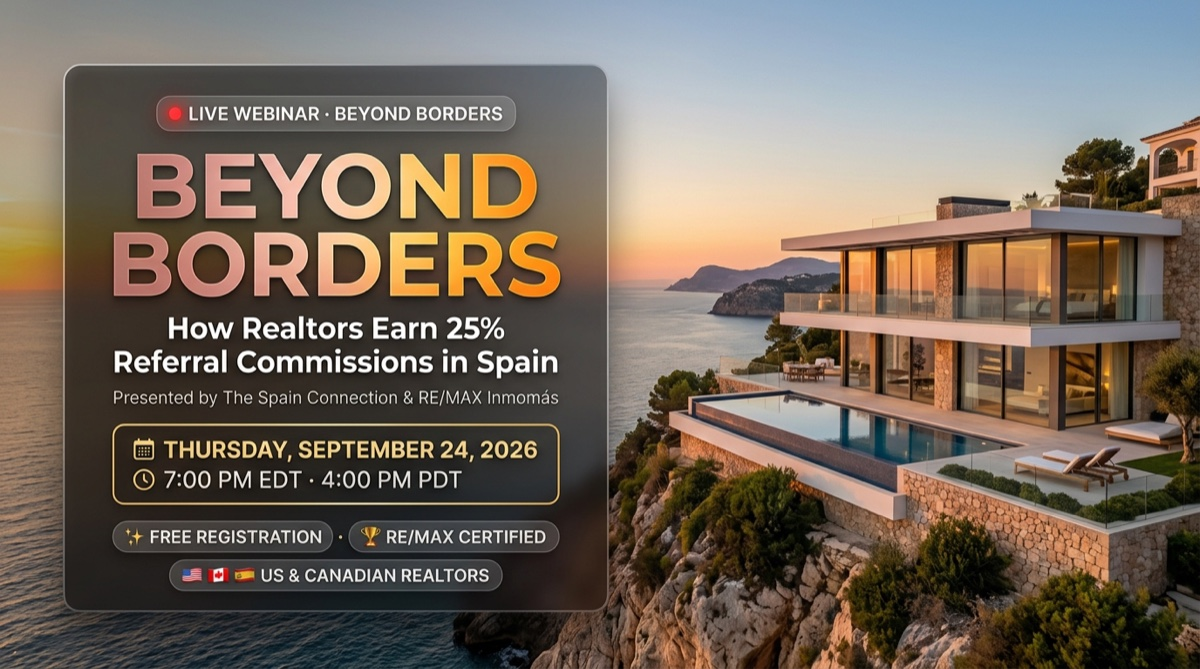
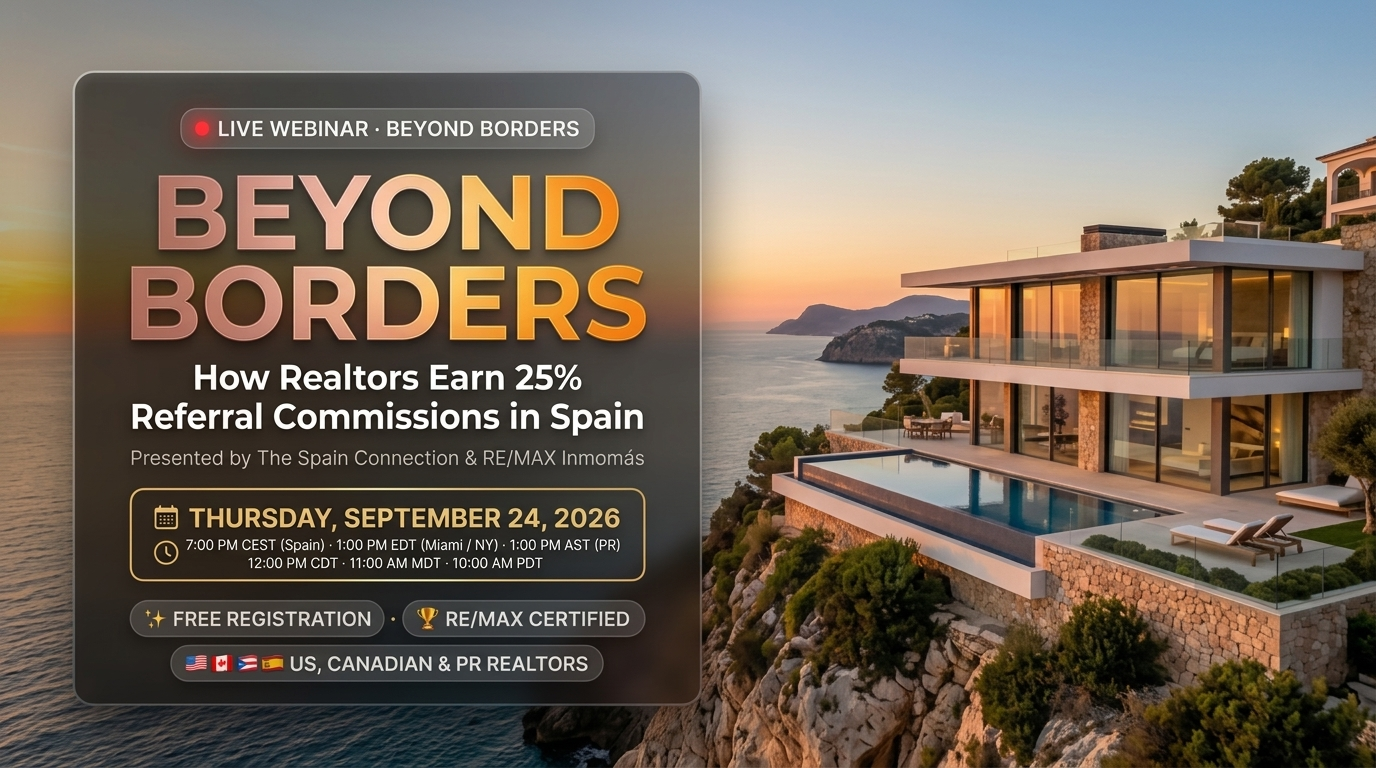
fix(webinar): update webinar assets to English and correct schedule to 7:00 PM CEST (1:00 PM EDT / 11:00 AM MDT / 10:00 AM PDT)

diff --git a/index.html b/index.html
@@ -6,8 +6,8 @@
   <meta name="viewport" content="width=device-width, initial-scale=1.0, viewport-fit=cover">
   <title>The Spain Connection</title>
   <meta name="description" content="Advisory for international buyers — Canadians, Americans, Europeans — buying property in Spain. 30+ years on the Costa Blanca. Legal, tax, mortgages, rentals & real estate — one trusted team.">
-  <meta property="og:title" content="The Spain Connection — Live Masterclass VIP: Beyond Borders (24 de Septiembre 2026)">
-  <meta property="og:description" content="Masterclass VIP en Vivo · 24 de Septiembre, 2026 a las 7:00 PM EDT. Guía para Realtors de EE.UU. y Canadá: cómo ganar 25% de comisión de referidos en España con RE/MAX Inmomás.">
+  <meta property="og:title" content="The Spain Connection — Live VIP Masterclass: Beyond Borders (September 24, 2026)">
+  <meta property="og:description" content="Live VIP Masterclass · September 24, 2026 at 7:00 PM CEST (Spain) / 1:00 PM EDT (Miami, NY, Toronto) / 1:00 PM AST (Puerto Rico) / 10:00 AM PDT. How US, Canadian & Puerto Rico Realtors earn 25% referral commissions in Spain with RE/MAX Inmomás.">
   <meta property="og:image" content="https://proyecto-internacional.vercel.app/images/webinar-share-sept24.jpg">
   <meta property="og:image:secure_url" content="https://proyecto-internacional.vercel.app/images/webinar-share-sept24.jpg">
   <meta property="og:image:type" content="image/jpeg">
@@ -17,8 +17,8 @@
   <meta property="og:type" content="website">
   <meta property="og:site_name" content="The Spain Connection">
   <meta name="twitter:card" content="summary_large_image">
-  <meta name="twitter:title" content="The Spain Connection — Live Masterclass VIP: Beyond Borders (24 de Septiembre 2026)">
-  <meta name="twitter:description" content="Masterclass VIP en Vivo · 24 de Septiembre a las 7:00 PM EDT. Gana 25% de comisión de referidos en España con RE/MAX Inmomás.">
+  <meta name="twitter:title" content="The Spain Connection — Live VIP Masterclass: Beyond Borders (September 24, 2026)">
+  <meta name="twitter:description" content="Live VIP Masterclass · September 24 at 7:00 PM CEST (Spain) / 1:00 PM EDT (Miami, NY, Toronto) / 1:00 PM AST (PR) / 10:00 AM PDT. Earn 25% referral commissions in Spain with RE/MAX Inmomás.">
   <meta name="twitter:image" content="https://proyecto-internacional.vercel.app/images/webinar-share-sept24.jpg">
   <!-- Mobile / PWA -->
   <meta name="theme-color" content="#1b5b7f">
@@ -94,10 +94,10 @@
         </span>
       </div>
       <span id="webinar-top-banner-text" style="color:#fff;font-size:.85rem;font-weight:600;">
-        <span class="lang-en">&#x1F399;&#xFE0F; <strong>Beyond Borders</strong> &nbsp;&middot;&nbsp; September 24 &nbsp;&middot;&nbsp; 7 PM EDT&nbsp;/&nbsp;19:00 h Miami &nbsp;&middot;&nbsp; Free for US &amp; Canadian Realtors</span>
-        <span class="lang-es">&#x1F399;&#xFE0F; <strong>Beyond Borders</strong> &nbsp;&middot;&nbsp; 24 de septiembre &nbsp;&middot;&nbsp; 7 PM EDT&nbsp;/&nbsp;19:00 h Miami &nbsp;&middot;&nbsp; Gratuito para Realtors y Brokers</span>
-        <span class="lang-fr">&#x1F399;&#xFE0F; <strong>Beyond Borders</strong> &nbsp;&middot;&nbsp; 24 septembre &nbsp;&middot;&nbsp; 19 h EDT &nbsp;&middot;&nbsp; Gratuit pour Agents &amp; Courtiers</span>
-        <span class="lang-en-ca">&#x1F399;&#xFE0F; <strong>Beyond Borders</strong> &nbsp;&middot;&nbsp; September 24 &nbsp;&middot;&nbsp; 7 PM EDT &nbsp;&middot;&nbsp; Free for US &amp; Canadian Realtors</span>
+        <span class="lang-en">&#x1F399;&#xFE0F; <strong>Beyond Borders</strong> &nbsp;&middot;&nbsp; September 24 &nbsp;&middot;&nbsp; 7:00 PM CEST (1:00 PM EDT / 10:00 AM PDT) &nbsp;&middot;&nbsp; Free for US &amp; Canadian Realtors</span>
+        <span class="lang-es">&#x1F399;&#xFE0F; <strong>Beyond Borders</strong> &nbsp;&middot;&nbsp; 24 de septiembre &nbsp;&middot;&nbsp; 19:00 h España (1:00 PM EDT / Miami · NY · PR) &nbsp;&middot;&nbsp; Gratuito para Realtors y Brokers</span>
+        <span class="lang-fr">&#x1F399;&#xFE0F; <strong>Beyond Borders</strong> &nbsp;&middot;&nbsp; 24 septembre &nbsp;&middot;&nbsp; 19 h CEST (13 h EDT) &nbsp;&middot;&nbsp; Gratuit pour Agents &amp; Courtiers</span>
+        <span class="lang-en-ca">&#x1F399;&#xFE0F; <strong>Beyond Borders</strong> &nbsp;&middot;&nbsp; September 24 &nbsp;&middot;&nbsp; 7:00 PM CEST (1:00 PM EDT / 10:00 AM PDT) &nbsp;&middot;&nbsp; Free for US &amp; Canadian Realtors</span>
       </span>
       <span id="webinar-top-banner-spots" style="display:inline-flex;align-items:center;gap:5px;background:rgba(255,200,0,.18);border:1px solid rgba(255,200,0,.45);border-radius:50px;padding:2px 10px;font-size:.72rem;font-weight:800;color:#ffe066;white-space:nowrap;letter-spacing:.04em;">
         &#x1F525;
@@ -1704,10 +1704,10 @@
               <span class="lang-en-ca">Beyond Borders · Realtor VIP Masterclass</span>
             </h2>
             <p id="referral-welcome-msg" style="color: var(--text-secondary); font-size: 0.88rem; line-height: 1.4; margin: 0 auto; max-width: 480px; text-align: center;">
-              <span class="lang-en">Live Webinar · September 24, 2026 · 7:00 PM EDT</span>
-              <span class="lang-es">Webinario en Vivo · 24 de Septiembre 2026 · 7:00 PM EDT</span>
-              <span class="lang-fr">Webinaire en Direct · 24 Septembre 2026 · 19 h EDT</span>
-              <span class="lang-en-ca">Live Webinar · September 24, 2026 · 7:00 PM EDT</span>
+              <span class="lang-en">Live Masterclass · September 24, 2026 · 7:00 PM CEST (1:00 PM EDT / 10:00 AM PDT)</span>
+              <span class="lang-es">Masterclass en Vivo · 24 de Septiembre 2026 · 19:00 h España (1:00 PM EDT / Miami · NY · PR)</span>
+              <span class="lang-fr">Masterclass en Direct · 24 Septembre 2026 · 19 h CEST (13 h EDT)</span>
+              <span class="lang-en-ca">Live Masterclass · September 24, 2026 · 7:00 PM CEST (1:00 PM EDT / 10:00 AM PDT)</span>
             </p>
           </div>
 
@@ -1721,7 +1721,7 @@
           <!-- ==================== WEBINAR SPOTLIGHT SHOWCASE BANNER (LUXURY VIP PASS) ==================== -->
           <div id="referral-webinar-spotlight-banner" class="luxury-webinar-pass">
             <div class="pass-badge-row">
-              <span class="live-pill"><span class="pulse-dot"></span> 24 SEP 2026 · 7:00 PM EDT</span>
+              <span class="live-pill"><span class="pulse-dot"></span> 24 SEP 2026 · 7:00 PM CEST / 1:00 PM EDT</span>
               <span class="vip-pill">🎟 <span class="lang-en">Realtor VIP Pass</span><span class="lang-es">Pase VIP Realtors</span><span class="lang-fr">Pass VIP Agents</span><span class="lang-en-ca">Realtor VIP Pass</span></span>
             </div>
 
@@ -1734,7 +1734,7 @@
 
             <div class="pass-meta-strip">
               <span>📅 <strong>24 Sep 2026</strong></span>
-              <span>⏰ <strong>7:00 PM EDT (Miami / NY)</strong></span>
+              <span>⏰ <strong>7:00 PM CEST (Spain) &middot; 1:00 PM EDT (Miami/NY/PR) &middot; 10:00 AM PDT</strong></span>
               <span>🎙 <strong>Q&amp;A en Vivo + Grabación</strong></span>
             </div>
 
@@ -2169,21 +2169,21 @@
 
               <div style="background:rgba(255,255,255,.06);border:1px solid rgba(255,255,255,.1);border-radius:14px;padding:14px 8px;text-align:center;">
                 <div style="font-size:1.4rem;margin-bottom:6px;">&#x1F301;</div>
-                <div id="webinar-time-pdt" style="font-size:1.2rem;font-weight:800;color:#fff;line-height:1;">4:00 PM</div>
+                <div id="webinar-time-pdt" style="font-size:1.2rem;font-weight:800;color:#fff;line-height:1;">10:00 AM</div>
                 <div style="font-size:.68rem;font-weight:700;color:#5badff;margin:4px 0 3px;text-transform:uppercase;letter-spacing:.08em;">PDT</div>
                 <div style="font-size:.65rem;color:rgba(255,255,255,.38);line-height:1.35;">Los Angeles<br>Vancouver</div>
               </div>
 
               <div style="background:rgba(255,255,255,.06);border:1px solid rgba(255,255,255,.1);border-radius:14px;padding:14px 8px;text-align:center;">
                 <div style="font-size:1.4rem;margin-bottom:6px;">&#x26F0;&#xFE0F;</div>
-                <div id="webinar-time-mdt" style="font-size:1.2rem;font-weight:800;color:#fff;line-height:1;">5:00 PM</div>
+                <div id="webinar-time-mdt" style="font-size:1.2rem;font-weight:800;color:#fff;line-height:1;">11:00 AM</div>
                 <div style="font-size:.68rem;font-weight:700;color:#5badff;margin:4px 0 3px;text-transform:uppercase;letter-spacing:.08em;">MDT</div>
                 <div style="font-size:.65rem;color:rgba(255,255,255,.38);line-height:1.35;">Denver<br>Calgary</div>
               </div>
 
               <div style="background:rgba(255,255,255,.06);border:1px solid rgba(255,255,255,.1);border-radius:14px;padding:14px 8px;text-align:center;">
                 <div style="font-size:1.4rem;margin-bottom:6px;">&#x1F306;</div>
-                <div id="webinar-time-cdt" style="font-size:1.2rem;font-weight:800;color:#fff;line-height:1;">6:00 PM</div>
+                <div id="webinar-time-cdt" style="font-size:1.2rem;font-weight:800;color:#fff;line-height:1;">12:00 PM</div>
                 <div style="font-size:.68rem;font-weight:700;color:#5badff;margin:4px 0 3px;text-transform:uppercase;letter-spacing:.08em;">CDT</div>
                 <div style="font-size:.65rem;color:rgba(255,255,255,.38);line-height:1.35;">Chicago<br>Winnipeg</div>
               </div>
@@ -2194,21 +2194,21 @@
                   <span class="lang-en">Reference</span><span class="lang-es">Referencia</span><span class="lang-fr">R&eacute;f&eacute;rence</span><span class="lang-en-ca">Reference</span>
                 </div>
                 <div style="font-size:1.4rem;margin-bottom:6px;">&#x1F5FD;</div>
-                <div id="webinar-time-edt" style="font-size:1.2rem;font-weight:800;color:#fff;line-height:1;">7:00 PM</div>
+                <div id="webinar-time-edt" style="font-size:1.2rem;font-weight:800;color:#fff;line-height:1;">1:00 PM</div>
                 <div style="font-size:.68rem;font-weight:700;color:#fecdd3;margin:4px 0 3px;text-transform:uppercase;letter-spacing:.08em;">EDT / AST</div>
                 <div style="font-size:.65rem;color:rgba(255,255,255,.55);line-height:1.35;">New York &middot; Miami &middot; PR<br>Toronto &middot; Ottawa</div>
               </div>
 
               <div style="background:rgba(255,255,255,.06);border:1px solid rgba(255,255,255,.1);border-radius:14px;padding:14px 8px;text-align:center;">
                 <div style="font-size:1.4rem;margin-bottom:6px;">&#x1F41F;</div>
-                <div id="webinar-time-adt" style="font-size:1.2rem;font-weight:800;color:#fff;line-height:1;">8:00 PM</div>
+                <div id="webinar-time-adt" style="font-size:1.2rem;font-weight:800;color:#fff;line-height:1;">2:00 PM</div>
                 <div style="font-size:.68rem;font-weight:700;color:#5badff;margin:4px 0 3px;text-transform:uppercase;letter-spacing:.08em;">ADT</div>
                 <div style="font-size:.65rem;color:rgba(255,255,255,.38);line-height:1.35;">Halifax<br>Moncton</div>
               </div>
 
               <div style="background:linear-gradient(135deg,rgba(204,0,0,.25),rgba(200,50,0,.15));border:1px solid rgba(255,100,50,.28);border-radius:14px;padding:14px 8px;text-align:center;">
                 <div style="font-size:1.4rem;margin-bottom:6px;">&#x1F1EA;&#x1F1F8;</div>
-                <div id="webinar-time-cest" style="font-size:1.2rem;font-weight:800;color:#fff;line-height:1;">1:00 AM*</div>
+                <div id="webinar-time-cest" style="font-size:1.2rem;font-weight:800;color:#fff;line-height:1;">7:00 PM</div>
                 <div style="font-size:.68rem;font-weight:700;color:#ff8c42;margin:4px 0 3px;text-transform:uppercase;letter-spacing:.08em;">CEST</div>
                 <div style="font-size:.65rem;color:rgba(255,255,255,.38);line-height:1.35;">Madrid<br>Barcelona</div>
               </div>
@@ -2342,7 +2342,7 @@
                     <span class="lang-en">Secure Your Free Spot</span><span class="lang-es">Asegura Tu Plaza Gratuita</span><span class="lang-fr">R&eacute;servez Votre Place Gratuite</span><span class="lang-en-ca">Secure Your Free Spot</span>
                   </div>
                   <div id="webinar-card-header-title" style="color:#fff;font-weight:800;font-size:1.05rem;">Beyond Borders &middot; September 24, 2026</div>
-                  <div id="webinar-card-header-subtitle" style="color:rgba(255,255,255,.6);font-size:.78rem;margin-top:2px;">7:00 PM EDT &nbsp;|&nbsp; 19:00 h Miami / NY</div>
+                  <div id="webinar-card-header-subtitle" style="color:rgba(255,255,255,.6);font-size:.78rem;margin-top:2px;">7:00 PM CEST (Spain) &nbsp;|&nbsp; 1:00 PM EDT (Miami / NY / Toronto) &nbsp;|&nbsp; 1:00 PM AST (PR) &nbsp;|&nbsp; 10:00 AM PDT</div>
                 </div>
               </div>
             </div>
@@ -2515,7 +2515,7 @@
                 <span class="lang-en-ca">Thank you for registering for <strong>Beyond Borders</strong>.<br>We'll send you the access link and a calendar invite before September 24th.</span>
               </p>
               <div style="background:#f0fdf4;border:1px solid #bbf7d0;border-radius:12px;padding:14px 24px;margin-bottom:24px;font-size:.85rem;color:#065f46;">
-                &#x1F4C5; <strong>Thursday, September 24 &nbsp;&middot;&nbsp; 7:00 PM EDT &nbsp;&middot;&nbsp; 19:00 h Miami / NY</strong>
+                &#x1F4C5; <strong>Thursday, September 24 &nbsp;&middot;&nbsp; 7:00 PM CEST (Spain) &nbsp;&middot;&nbsp; 1:00 PM EDT (Miami / NY / Toronto) &nbsp;&middot;&nbsp; 1:00 PM AST (PR)</strong>
               </div>
               <a href="#home" style="display:inline-block;padding:12px 32px;background:#003f99;color:#fff;border-radius:10px;font-weight:700;text-decoration:none;font-size:.9rem;"
                  onmouseover="this.style.opacity='.85'" onmouseout="this.style.opacity='1'">

diff --git a/app.html b/app.html
@@ -563,7 +563,7 @@
               <span style="width:10px;height:10px;border-radius:50%;background:#10b981;box-shadow:0 0 8px #10b981;animation:webinar-pulse 1.5s ease-in-out infinite;"></span>
               <span style="font-size:0.88rem;color:#1e3a8a;font-weight:600;">
                 <span class="lang-en">Live on Website:</span><span class="lang-es">Activo en la Web:</span>
-                <strong id="admin-status-text" style="color:#0f172a;margin-left:4px;">B2B (Realtors y Brokers) — Beyond Borders — 24 de septiembre, 2026 (7:00 PM EDT)</strong>
+                <strong id="admin-status-text" style="color:#0f172a;margin-left:4px;">B2B (Realtors y Brokers) — Beyond Borders — 24 de septiembre, 2026 (7:00 PM CEST / 1:00 PM EDT)</strong>
               </span>
             </div>
             <span id="admin-status-badge" style="background:#003f99;color:#fff;padding:4px 12px;border-radius:50px;font-size:0.75rem;font-weight:800;letter-spacing:0.04em;">
@@ -583,10 +583,10 @@
 
               <div class="form-group">
                 <label for="admin-webinar-time" style="display:block;font-size:0.82rem;font-weight:700;color:#374151;margin-bottom:6px;">
-                  ⏰ <span class="lang-en">Start Time (EDT / US Eastern) *</span><span class="lang-es">Hora de Inicio (EDT / Este EEUU) *</span>
+                  ⏰ <span class="lang-en">Start Time (Spain CEST / Madrid) *</span><span class="lang-es">Hora de Inicio (España CEST / Madrid) *</span>
                 </label>
                 <input type="time" id="admin-webinar-time" required class="form-input" style="font-weight:600;" value="19:00">
-                <small style="color:#6b7280;font-size:0.72rem;display:block;margin-top:4px;">7:00 PM EDT (19:00 h Miami / NY / Toronto)</small>
+                <small style="color:#6b7280;font-size:0.72rem;display:block;margin-top:4px;">7:00 PM CEST (19:00 h España · 1:00 PM EDT Miami/NY · 10:00 AM PDT)</small>
               </div>
 
               <div class="form-group">
@@ -745,7 +745,7 @@
               <div style="flex: 1; min-width: 220px;">
                 <div style="display: inline-flex; align-items: center; gap: 6px; background: rgba(225,29,72,0.25); border: 1px solid rgba(244,63,94,0.6); border-radius: 50px; padding: 2px 10px; margin-bottom: 6px;">
                   <span style="width: 6px; height: 6px; border-radius: 50%; background: #ff4444;"></span>
-                  <span style="font-size: 0.68rem; font-weight: 800; text-transform: uppercase; color: #ffe4e6;">Webinar Activo · 24 Sep 2026 · 7:00 PM EDT</span>
+                  <span style="font-size: 0.68rem; font-weight: 800; text-transform: uppercase; color: #ffe4e6;">Webinar Activo · 24 Sep 2026 · 7:00 PM CEST / 1:00 PM EDT</span>
                 </div>
                 <h4 style="font-size: 1.05rem; font-weight: 800; color: #fff; margin: 0 0 4px;">
                   <span class="lang-en">Beyond Borders: How Realtors Earn 25% Referral Commissions</span>
@@ -859,7 +859,7 @@
               <div style="flex: 1; min-width: 220px;">
                 <div style="display: inline-flex; align-items: center; gap: 6px; background: rgba(225,29,72,0.3); border: 1px solid rgba(244,63,94,0.6); border-radius: 50px; padding: 2px 10px; margin-bottom: 6px;">
                   <span style="width: 6px; height: 6px; border-radius: 50%; background: #ff4444;"></span>
-                  <span style="font-size: 0.68rem; font-weight: 800; text-transform: uppercase; color: #ffe4e6;">👤 Enlace para Clientes · Webinar 24 Sep · 7:00 PM EDT</span>
+                  <span style="font-size: 0.68rem; font-weight: 800; text-transform: uppercase; color: #ffe4e6;">👤 Enlace para Clientes · Webinar 24 Sep · 7:00 PM CEST / 1:00 PM EDT</span>
                 </div>
                 <h4 style="font-size: 1.05rem; font-weight: 800; color: #fff; margin: 0 0 4px;">
                   <span class="lang-en">Spain Unlocked: Living & Investing in Spain</span>
@@ -937,7 +937,7 @@
               <div style="flex: 1; min-width: 220px;">
                 <div style="display: inline-flex; align-items: center; gap: 6px; background: rgba(225,29,72,0.25); border: 1px solid rgba(244,63,94,0.6); border-radius: 50px; padding: 2px 10px; margin-bottom: 6px;">
                   <span style="width: 6px; height: 6px; border-radius: 50%; background: #ff4444;"></span>
-                  <span style="font-size: 0.68rem; font-weight: 800; text-transform: uppercase; color: #ffe4e6;">Webinar Activo · 24 Sep 2026 · 7:00 PM EDT</span>
+                  <span style="font-size: 0.68rem; font-weight: 800; text-transform: uppercase; color: #ffe4e6;">Webinar Activo · 24 Sep 2026 · 7:00 PM CEST / 1:00 PM EDT</span>
                 </div>
                 <h4 style="font-size: 1.05rem; font-weight: 800; color: #fff; margin: 0 0 4px;">
                   <span class="lang-en">Beyond Borders: How Realtors Earn 25% Referral Commissions</span>
@@ -1065,7 +1065,7 @@
               <div style="flex: 1; min-width: 220px;">
                 <div style="display: inline-flex; align-items: center; gap: 6px; background: rgba(225,29,72,0.25); border: 1px solid rgba(244,63,94,0.6); border-radius: 50px; padding: 2px 10px; margin-bottom: 6px;">
                   <span style="width: 6px; height: 6px; border-radius: 50%; background: #ff4444;"></span>
-                  <span style="font-size: 0.68rem; font-weight: 800; text-transform: uppercase; color: #ffe4e6;">Webinar Activo · 24 Sep 2026 · 7:00 PM EDT</span>
+                  <span style="font-size: 0.68rem; font-weight: 800; text-transform: uppercase; color: #ffe4e6;">Webinar Activo · 24 Sep 2026 · 7:00 PM CEST / 1:00 PM EDT</span>
                 </div>
                 <h4 style="font-size: 1.05rem; font-weight: 800; color: #fff; margin: 0 0 4px;">
                   <span class="lang-en">Beyond Borders: How Realtors Earn 25% Referral Commissions</span>

diff --git a/js/utils.js b/js/utils.js
@@ -181,19 +181,31 @@ App.utils.generateReferralLink = function(referralCode) {
 App.utils.getClientWebinarShareMessage = function(referralLink) {
   const user = App.auth ? App.auth.getCurrentUser() : null;
   const link = referralLink || (user?.referralCode ? App.utils.generateReferralLink(user.referralCode) : 'https://thespainconnection.com/index.html#webinar');
-  return `🇪🇸 ¡Hola! Te invito con un Pase VIP Gratuito a nuestra Masterclass en vivo el 24 de septiembre (7:00 PM EDT / 19:00 h Miami · NY): "Beyond Borders · Cómo Comprar, Mudarse e Invertir con Seguridad en España".\n\n📌 Conoce las claves de compra segura, visados de residencia e hipotecas para no residentes con RE/MAX Inmomás.\n\n🎟 Reserva tu plaza gratuita aquí: ${link}`;
+  const lang = (document.documentElement.lang || 'en').toLowerCase();
+  if (lang.startsWith('es')) {
+    return `🇪🇸 ¡Hola! Te invito con un Pase VIP Gratuito a nuestra Masterclass en vivo el 24 de septiembre (19:00 h España / 1:00 PM EDT Miami · NY · Toronto · Puerto Rico / 10:00 AM PDT): "Beyond Borders · Cómo Comprar, Mudarse e Invertir con Seguridad en España".\n\n📌 Conoce las claves de compra segura, visados de residencia e hipotecas para no residentes con RE/MAX Inmomás.\n\n🎟 Reserva tu plaza gratuita aquí: ${link}`;
+  }
+  return `🇪🇸 Hello! You're invited with a Complimentary VIP Pass to our live Masterclass on September 24 (7:00 PM CEST Spain / 1:00 PM EDT Miami · NY · Toronto / 1:00 PM AST Puerto Rico / 10:00 AM PDT): "Beyond Borders · How to Buy, Move & Invest Safely in Spain".\n\n📌 Discover the keys to safe property acquisition, residency visas, and non-resident mortgages with RE/MAX Inmomás.\n\n🎟 Reserve your free spot here: ${link}`;
 };
 
 App.utils.getRealtorPartnerShareMessage = function(referralLink) {
   const user = App.auth ? App.auth.getCurrentUser() : null;
   const link = referralLink || (user?.referralCode ? App.utils.generateReferralLink(user.referralCode) : 'https://thespainconnection.com/index.html#register');
-  return `🤝 ¡Hola! Te invito a la Masterclass VIP "Beyond Borders" el 24 de septiembre a las 7:00 PM EDT (19:00 h Miami · NY). Descubre cómo los Realtors en EE.UU., Canadá y Puerto Rico ganan un 25% de comisión de referidos en España con RE/MAX Inmomás y soporte legal/fiscal completo en destino.\n\n🔗 Reserva tu Pase VIP y activa tu cuenta de Realtor Partner: ${link}`;
+  const lang = (document.documentElement.lang || 'en').toLowerCase();
+  if (lang.startsWith('es')) {
+    return `🤝 ¡Hola! Te invito a la Masterclass VIP "Beyond Borders" el 24 de septiembre a las 19:00 h España (1:00 PM EDT Miami · NY · Toronto · Puerto Rico / 10:00 AM PDT Los Ángeles). Descubre cómo los Realtors en EE.UU., Canadá y Puerto Rico ganan un 25% de comisión de referidos en España con RE/MAX Inmomás y soporte legal/fiscal completo en destino.\n\n🔗 Reserva tu Pase VIP y activa tu cuenta de Realtor Partner: ${link}`;
+  }
+  return `🤝 Hello! You're invited to the VIP Masterclass "Beyond Borders" on September 24 at 7:00 PM CEST Spain (1:00 PM EDT Miami · NY · Toronto / 1:00 PM AST Puerto Rico / 10:00 AM PDT). Discover how US, Canadian & Puerto Rico Realtors earn 25% referral commissions in Spain with RE/MAX Inmomás and full turnkey destination support.\n\n🔗 Claim your VIP Pass & activate your Realtor Partner account: ${link}`;
 };
 
 App.utils.getBrokerPartnerShareMessage = function(referralLink) {
   const user = App.auth ? App.auth.getCurrentUser() : null;
   const link = referralLink || (user?.referralCode ? App.utils.generateReferralLink(user.referralCode) : 'https://thespainconnection.com/index.html#register');
-  return `🏢 ¡Hola! Te invito a crear una alianza estratégica entre tu Brokerage/Agencia y RE/MAX Inmomás · The Spain Connection. Abre un nuevo canal de ingresos internacionales para tu equipo con 25% de split de comisión en España y respaldo institucional completo.\n\n🔗 Registra tu Brokerage aquí: ${link}`;
+  const lang = (document.documentElement.lang || 'en').toLowerCase();
+  if (lang.startsWith('es')) {
+    return `🏢 ¡Hola! Te invito a crear una alianza estratégica entre tu Brokerage/Agencia y RE/MAX Inmomás · The Spain Connection. Abre un nuevo canal de ingresos internacionales para tu equipo con 25% de split de comisión en España y respaldo institucional completo.\n\n🔗 Registra tu Brokerage aquí: ${link}`;
+  }
+  return `🏢 Hello! We invite you to create a strategic partnership between your Brokerage and RE/MAX Inmomás · The Spain Connection. Open a high-yield international revenue channel for your agents with a 25% commission split in Spain and full institutional backing.\n\n🔗 Register your Brokerage here: ${link}`;
 };
 
 App.utils.getWebinarShareMessage = function(referralLink) {

diff --git a/js/views/public-views.js b/js/views/public-views.js
@@ -159,10 +159,10 @@ App.views.public = {
                <span class="lang-es">Invitado/a por <strong>${refName}</strong> (25% de comisión de referido en España)</span>
                <span class="lang-fr">Invité(e) par <strong>${refName}</strong> (25% de commission en Espagne)</span>
                <span class="lang-en-ca">Invited by <strong>${refName}</strong> (25% referral commission in Spain)</span>`
-            : `<span class="lang-en">Live Masterclass · September 24, 2026 · 7:00 PM EDT (25% Commissions)</span>
-               <span class="lang-es">Masterclass en Vivo · 24 de Septiembre 2026 · 7:00 PM EDT (25% Comisión)</span>
-               <span class="lang-fr">Masterclass en Direct · 24 Septembre 2026 · 19 h EDT</span>
-               <span class="lang-en-ca">Live Masterclass · September 24, 2026 · 7:00 PM EDT (25% Commissions)</span>`;
+            : `<span class="lang-en">Live Masterclass · September 24, 2026 · 7:00 PM CEST (1:00 PM EDT / 10:00 AM PDT)</span>
+               <span class="lang-es">Masterclass en Vivo · 24 de Septiembre 2026 · 19:00 h España (1:00 PM EDT / Miami · NY · PR)</span>
+               <span class="lang-fr">Masterclass en Direct · 24 Septembre 2026 · 19 h CEST (13 h EDT)</span>
+               <span class="lang-en-ca">Live Masterclass · September 24, 2026 · 7:00 PM CEST (1:00 PM EDT / 10:00 AM PDT)</span>`;
         }
         if (submitBtn) {
           submitBtn.innerHTML = `<span class="lang-en">🎟 Claim Realtor VIP Pass</span><span class="lang-es">🎟 Reservar Mi Pase VIP de Realtor</span><span class="lang-fr">🎟 Réserver Mon Pass VIP Conseiller</span><span class="lang-en-ca">🎟 Claim Realtor VIP Pass</span>`;
@@ -624,14 +624,14 @@ App.views.public = {
         return `${displayH}${displayM} ${period}`;
       }
 
-      const pdtTime = formatTime12((hourRef - 3 + 24) % 24, minRef);
-      const mdtTime = formatTime12((hourRef - 2 + 24) % 24, minRef);
-      const cdtTime = formatTime12((hourRef - 1 + 24) % 24, minRef);
-      const edtTime = formatTime12(hourRef, minRef);
-      const adtTime = formatTime12((hourRef + 1) % 24, minRef);
-      const cestTime = formatTime12((hourRef + 6) % 24, minRef);
-      const cestHour24 = (hourRef + 6) % 24;
+      const cestTime = formatTime12(hourRef, minRef);
+      const cestHour24 = hourRef;
       const cestTime24 = minRef === 0 ? `${cestHour24} h` : `${cestHour24}:${String(minRef).padStart(2, '0')} h`;
+      const adtTime = formatTime12((hourRef - 5 + 24) % 24, minRef);
+      const edtTime = formatTime12((hourRef - 6 + 24) % 24, minRef);
+      const cdtTime = formatTime12((hourRef - 7 + 24) % 24, minRef);
+      const mdtTime = formatTime12((hourRef - 8 + 24) % 24, minRef);
+      const pdtTime = formatTime12((hourRef - 9 + 24) % 24, minRef);
 
       const isB2C = activeType === 'b2c';
 
@@ -902,7 +902,7 @@ App.views.public = {
 
       const cardHeaderSubtitle = document.getElementById('webinar-card-header-subtitle');
       if (cardHeaderSubtitle) {
-        cardHeaderSubtitle.textContent = `${edtTime} EDT | ${cestTime} Spain`;
+        cardHeaderSubtitle.textContent = `${cestTime} CEST (Spain) | ${edtTime} EDT (Miami/NY/PR) | ${pdtTime} PDT`;
       }
 
       const submitBtn = document.getElementById('webinar-submit-btn');
@@ -947,7 +947,7 @@ App.views.public = {
 
       const countdownEl = document.getElementById('webinar-countdown');
       if (countdownEl) {
-        const targetDate = new Date(`${dateStr}T${timeStr}:00-04:00`);
+        const targetDate = new Date(`${dateStr}T${timeStr}:00+02:00`);
         function tick() {
           const now = new Date();
           const diff = targetDate - now;

diff --git a/js/auth-service.js b/js/auth-service.js
@@ -1176,10 +1176,10 @@ App.auth = (function() {
 
   /* ---- Webinar Settings (B2B vs B2C Switch & Date Config) ---- */
   const DEFAULT_WEBINAR_SETTINGS = {
-    activeType: 'b2b', // Default next upcoming webinar: B2B for Realtors (Sept 24, 2026 at 7:00 PM EDT)
+    activeType: 'b2b', // Default next upcoming webinar: B2B for Realtors (Sept 24, 2026 at 7:00 PM CEST / 1:00 PM EDT)
     date: '2026-09-24',
-    time: '19:00', // 7:00 PM EDT (19:00 h Miami / NY / Toronto)
-    timeZone: 'EDT',
+    time: '19:00', // 7:00 PM CEST (19:00 h Spain / 1:00 PM EDT / 10:00 AM PDT)
+    timeZone: 'CEST',
     spotsAvailable: 25,
     updatedAt: new Date().toISOString(),
     b2b: {
@@ -1232,10 +1232,10 @@ App.auth = (function() {
         'en-ca': 'In just 60 minutes, learn the exact system our collaborators use to close international deals and earn 25% commissions.'
       },
       bannerText: {
-        en: 'Beyond Borders · September 24 · 7 PM EDT / 19:00 h Miami · Free for Realtors & Brokers',
-        es: 'Beyond Borders · 24 de Septiembre · 7 PM EDT / 19:00 h Miami · Gratuito para Realtors y Brokers',
-        fr: 'Beyond Borders · 24 Septembre · 19 h EDT · Gratuit pour les Agents & Courtiers',
-        'en-ca': 'Beyond Borders · September 24 · 7 PM EDT · Free for Realtors & Brokers'
+        en: 'Beyond Borders · September 24 · 7:00 PM CEST (1:00 PM EDT / 10:00 AM PDT) · Free for Realtors & Brokers',
+        es: 'Beyond Borders · 24 de Septiembre · 19:00 h España (1:00 PM EDT / Miami · NY · PR) · Gratuito para Realtors y Brokers',
+        fr: 'Beyond Borders · 24 Septembre · 19 h CEST (13 h EDT) · Gratuit pour les Agents & Courtiers',
+        'en-ca': 'Beyond Borders · September 24 · 7:00 PM CEST (1:00 PM EDT / 10:00 AM PDT) · Free for Realtors & Brokers'
       },
       formCardTitle: {
         en: 'Beyond Borders · Realtor VIP Pass',
